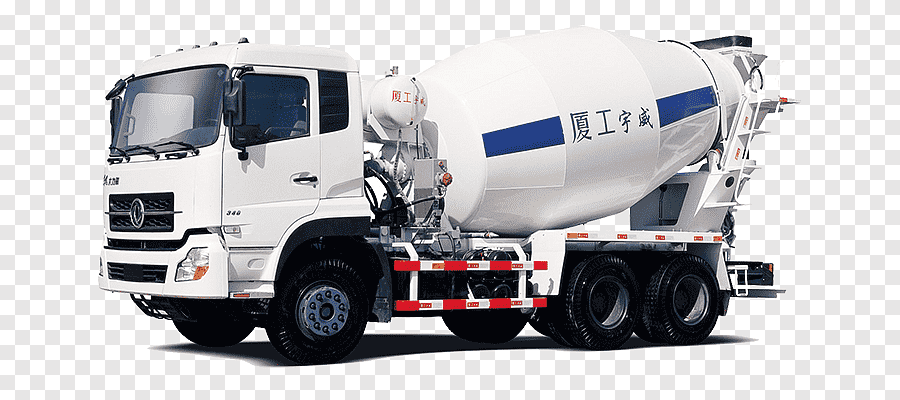
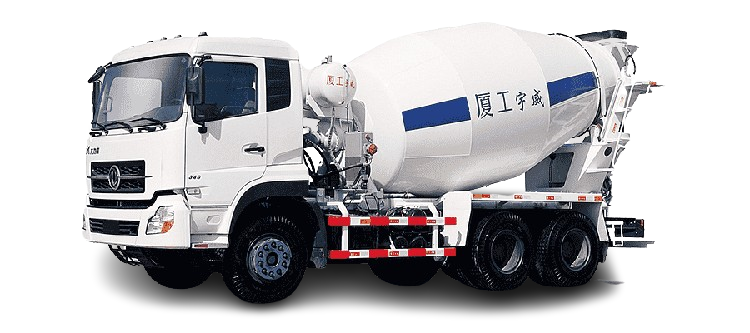
replace images

diff --git a/database/seeders/CategorySeeder.php b/database/seeders/CategorySeeder.php
@@ -110,7 +110,7 @@ class CategorySeeder extends Seeder
                     // 1
                     "images/ARou8tIIuzh08flNJnYIlRnqrBXEM0T6F3feyV45.png",
                     "images/4bApu2W78pmZkK9FSgH4tcR1E5869sV7vCDbbcWP.png",
-                    "images/UIbSco2ShVUVIhbGgqmS8AvAo7OBIMBId5xtTWf0.avif",
+                    "images/UIbSco2ShVUVIhbGgqmS8AvAo7OBIMBId5xtTWf0.png",
                     "images/IrmZfq1RrDHR9GZzjEo7fyVfdNb4oXddTPF7Jreo.png",
                     "images/o9kSYJLBcItMb7GxavR47OxShpm1VBY7VxzirEbg.png",
                     "images/8QjMfKGU9ligSjcJKZ0n5VQhSHAmX7wTaWEPrUrj.png",
